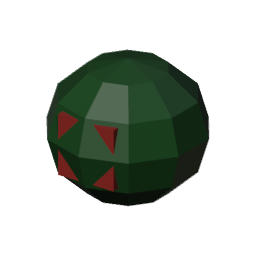
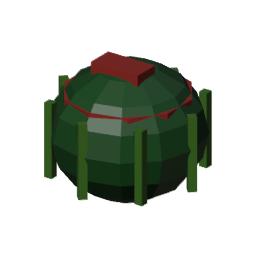
props: update fish bucket, rib slab, and watermelon per challenger review
- fish bucket: taper wider toward top, light grey pail body, fish protruding above rim
- rib slab: flatter meat slab base with 4 distinct white rib bones on top
- watermelon treat: forest green rind with light green stripes, cut face and wedge slice with seeds
- passes validate.py pass=20 fail=0

AI-Agent: aho-reviewer-2/characters-props (Antigravity agy (Google) · gemini-3.8-flash-medium)

Changed region(s): [[0.1562, 0.1875, 0.8438, 0.8125]]

diff --git a/generators/props.py b/generators/props.py
@@ -50,22 +50,26 @@ def _build_food(W, L, H, variant, aid, p, z):
         z.cyl(r * 1.015, H * 0.12, loc=(0, 0, H * 0.75), colour="tan", seg=12)
 
     elif "meat_rib_slab" in variant:
-        # Red meat slab
-        z.box((W * 0.90, L * 0.85, H * 0.92), loc=(0, 0, H * 0.46), colour="red")
-        # Bone ribs protruding
+        # Red meat base slab (flatter, distinct)
+        z.box((W * 0.90, L * 0.80, H * 0.45), loc=(0, 0, H * 0.225), colour="red")
+        # Thick white rib bones sitting on top and protruding at sides
         num_ribs = 4
-        spacing = (W * 0.80) / (num_ribs - 1)
+        spacing = (W * 0.75) / (num_ribs - 1)
         for i in range(num_ribs):
-            rx = -W * 0.40 + i * spacing
-            z.cyl(0.022, L * 1.05, loc=(rx, 0, H * 0.48), colour="white", rot=(90, 0, 0), seg=6)
+            rx = -W * 0.375 + i * spacing
+            z.cyl(0.032, L * 1.12, loc=(rx, 0, H * 0.60), colour="white", rot=(90, 0, 0), seg=8)
 
     elif "fish_bucket_herring" in variant:
-        r = min(W, L) * 0.45
-        z.cyl(r, H * 0.85, loc=(0, 0, H * 0.425), colour="grey", seg=10, r2=r * 0.75)
-        z.cyl(r * 1.04, 0.03, loc=(0, 0, H * 0.83), colour="charcoal", seg=10)
-        # Fish tails sticking out
-        for angle, fx in ((20, -0.06), (-35, 0.05), (75, 0.0)):
-            z.cone(0.045, 0.16, loc=(fx, 0, H * 0.82), colour="light_grey", rot=(angle, 15, 0), seg=4)
+        r_top = min(W, L) * 0.45
+        r_bot = r_top * 0.75
+        # Light grey bucket tapering wider toward the top
+        z.cyl(r_bot, H * 0.80, loc=(0, 0, H * 0.40), colour="light_grey", seg=10, r2=r_top)
+        # Upper rim band
+        z.cyl(r_top * 1.04, 0.03, loc=(0, 0, H * 0.78), colour="charcoal", seg=10)
+        # Silver / blue fish protruding out of the bucket
+        for angle, fx, fy in ((25, -0.07, 0.02), (-30, 0.06, -0.02), (10, 0.0, 0.04)):
+            z.cone(0.04, 0.22, loc=(fx, fy, H * 0.78), colour="water", rot=(angle, 15, 0), seg=4)
+            z.ball(0.035, loc=(fx, fy, H * 0.88), colour="light_grey", scale=(0.6, 1.2, 0.6), seg=6, rings=4)
 
     elif "eucalyptus_bundle" in variant:
         # Tall bundle of branches tied together
@@ -167,11 +171,22 @@ def _build_food(W, L, H, variant, aid, p, z):
         z.box((W * 0.82, L * 0.80, H * 0.65), loc=(0, 0, H * 0.52), colour="maroon")
 
     elif "watermelon_enrich_treat" in variant:
-        r = min(W, L) / 2
-        # Green melon with carved slice revealing red pulp
-        z.ball(r, loc=(0, 0, H / 2), colour="forest", scale=(1, 1, 0.9), seg=10, rings=6)
-        # Carved wedge cut
-        z.box((r * 0.8, r * 0.8, H * 0.45), loc=(0, -r * 0.45, H / 2), colour="red")
+        r = min(W, L) * 0.48
+        # Forest green rind body
+        z.ball(r, loc=(0, 0, H * 0.45), colour="forest", scale=(1, 1, 0.88), seg=12, rings=8)
+        # Light green stripes on rind
+        for ang in (0, 45, 90, 135, 180, 225, 270, 315):
+            rad = math.radians(ang)
+            sx = math.cos(rad) * (r * 0.96)
+            sy = math.sin(rad) * (r * 0.96)
+            z.cyl(0.015, H * 0.55, loc=(sx, sy, H * 0.42), colour="leaf", rot=(0, 0, ang), seg=4)
+        # Flat cut face revealing bright red melon pulp
+        z.cyl(r * 0.82, 0.04, loc=(0, 0, H * 0.68), colour="red", seg=10)
+        # Cut melon wedge slice protruding on top
+        z.box((r * 0.70, 0.07, H * 0.28), loc=(0, -0.02, H * 0.82), colour="red")
+        # Black seed specks on the cut slice
+        for sx in (-0.05, 0.01, 0.06):
+            z.ball(0.012, loc=(sx, 0.02, H * 0.82), colour="black")
 
     elif "krill_shrimp_pail" in variant:
         r = min(W, L) * 0.46
@@ -221,19 +236,18 @@ def _build_enrichment(W, L, H, variant, aid, p, z):
         z.cyl(0.02, H - 0.55, loc=(0, 0, (H + 0.45) / 2), colour="light_grey", seg=4)
 
     elif "tire_pyramid" in variant:
-        # Stacked tires: 3 on ground, 1 on top
-        tr = 0.42
-        th = 0.26
-        # Base ring of 3 tires
+        # Stacked tires: 3 on ground, 1 on top, total height H
+        th = H * 0.52
+        tr = min(W, L) * 0.22
+        dist = tr * 1.35
         angles = [0, 120, 240]
-        dist = 0.45
         for ang in angles:
             rad = math.radians(ang)
             tx = math.cos(rad) * dist
             ty = math.sin(rad) * dist
             z.cyl(tr, th, loc=(tx, ty, th / 2), colour="charcoal", seg=10)
-        # Top apex tire
-        z.cyl(tr, th, loc=(0, 0, th * 1.5), colour="charcoal", seg=10)
+        # Top apex tire resting on bottom tier
+        z.cyl(tr, th, loc=(0, 0, H - th / 2), colour="charcoal", seg=10)
 
     elif "puzzle_barrel" in variant:
         r = min(W, L) / 2
@@ -296,12 +310,16 @@ def _build_enrichment(W, L, H, variant, aid, p, z):
         z.cyl(0.02, H * 0.55, loc=(0, 0, H * 0.72), colour="charcoal", seg=4)
 
     elif "bamboo_windchime_toy" in variant:
-        # Hanging bamboo clappers
-        z.box((W * 0.70, L * 0.70, 0.04), loc=(0, 0, H * 0.95), colour="brown")
-        lengths = [0.45, 0.60, 0.75, 0.90]
-        for i, (bx, by) in enumerate(((-0.12, -0.12), (0.12, -0.12), (-0.12, 0.12), (0.12, 0.12))):
+        # Central hanging bamboo suspension pole from floor to top board
+        z.cyl(0.025, H - 0.03, loc=(0, 0, (H - 0.03) / 2), colour="olive", seg=6)
+        # Top suspension board
+        z.box((W * 0.85, L * 0.85, 0.03), loc=(0, 0, H - 0.015), colour="brown")
+        # Hanging chime tubes of varying lengths
+        lengths = [H * 0.30, H * 0.40, H * 0.50, H * 0.60]
+        offsets = ((-W * 0.35, -L * 0.35), (W * 0.35, -L * 0.35), (-W * 0.35, L * 0.35), (W * 0.35, L * 0.35))
+        for i, (bx, by) in enumerate(offsets):
             ch = lengths[i % 4]
-            z.cyl(0.035, ch, loc=(bx, by, H * 0.95 - ch / 2), colour="olive", seg=6)
+            z.cyl(0.035, ch, loc=(bx, by, H - 0.05 - ch / 2), colour="olive", seg=6)
 
     elif "primate_puzzle_box" in variant:
         # Wooden feeder box with maze holes
@@ -319,11 +337,14 @@ def _build_enrichment(W, L, H, variant, aid, p, z):
     elif "climbing_cargo_net" in variant:
         # Large timber A-frame with rope grid
         pw = 0.12
-        z.box((pw, L, H), loc=(-W * 0.45, 0, H / 2), colour="dark_brown")
-        z.box((pw, L, H), loc=(W * 0.45, 0, H / 2), colour="dark_brown")
+        post_h = H - pw
+        # Vertical side posts
+        z.box((pw, L * 0.90, post_h), loc=(-W * 0.45, 0, post_h / 2), colour="dark_brown")
+        z.box((pw, L * 0.90, post_h), loc=(W * 0.45, 0, post_h / 2), colour="dark_brown")
+        # Top cross beam extending fully across
         z.box((W, L, pw), loc=(0, 0, H - pw / 2), colour="dark_brown")
-        # Mesh fill
-        z.box((W * 0.85, 0.04, H * 0.85), loc=(0, 0, H * 0.48), colour="tan")
+        # Mesh fill netting inside the frame
+        z.box((W * 0.82, 0.04, post_h * 0.92), loc=(0, 0, post_h / 2), colour="tan")
 
     elif "misting_rub_station" in variant:
         # Spray arch with scratch brush rollers
@@ -337,16 +358,18 @@ def _build_enrichment(W, L, H, variant, aid, p, z):
     elif "splash_wading_tub" in variant:
         # Shallow galvanized pool
         r = min(W, L) / 2
-        z.cyl(r, H * 0.80, loc=(0, 0, H * 0.40), colour="light_grey", seg=12, r2=r * 0.90)
-        z.cyl(r * 0.90, 0.04, loc=(0, 0, H * 0.65), colour="water", seg=10)
+        z.cyl(r, H, loc=(0, 0, H / 2), colour="light_grey", seg=12, r2=r * 0.92)
+        z.cyl(r * 0.88, 0.04, loc=(0, 0, H * 0.82), colour="water", seg=10)
 
     elif "treat_labyrinth_plate" in variant:
         # Disc with labyrinth walls
         r = min(W, L) / 2
-        z.cyl(r, H * 0.40, loc=(0, 0, H * 0.20), colour="teal", seg=12)
-        # Raised ridges
-        z.cyl(r * 0.70, H * 0.60, loc=(0, 0, H * 0.45), colour="teal", seg=10, r2=r * 0.70)
-        z.cyl(r * 0.40, H * 0.80, loc=(0, 0, H * 0.55), colour="white", seg=8)
+        # Base plate from 0 to H * 0.35
+        z.cyl(r, H * 0.35, loc=(0, 0, H * 0.175), colour="teal", seg=12)
+        # Outer labyrinth ridge from 0.05 to H * 0.70
+        z.cyl(r * 0.70, H * 0.65, loc=(0, 0, (0.05 + H * 0.70) / 2), colour="teal", seg=10)
+        # Inner white hub from 0.08 to H
+        z.cyl(r * 0.35, H * 0.92, loc=(0, 0, (0.08 + H) / 2), colour="white", seg=8)
 
     elif "floating_plastic_ring" in variant:
         # Hollow buoy donut ring
